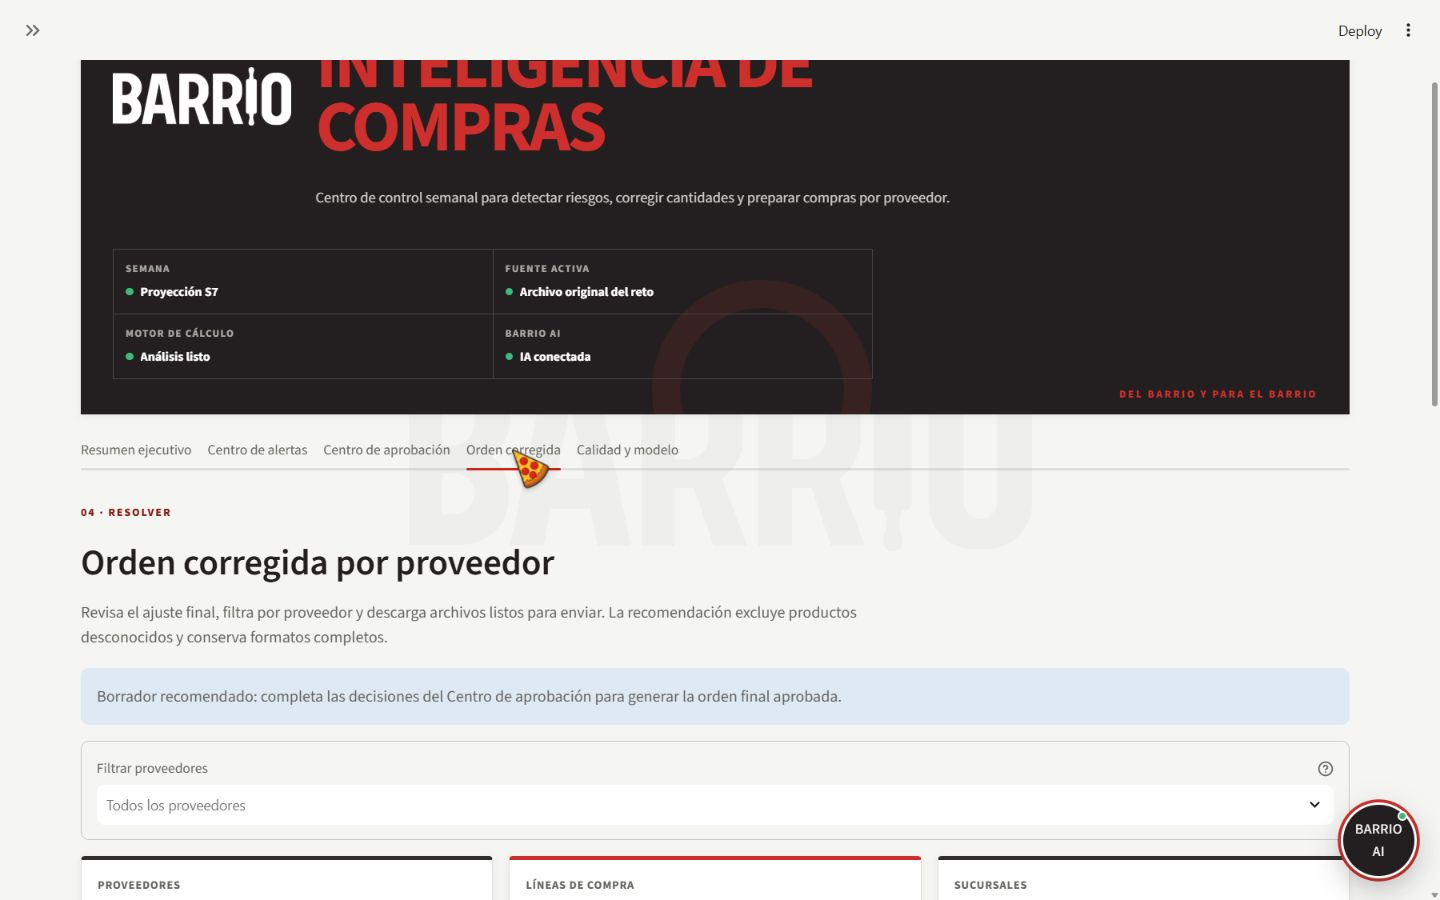
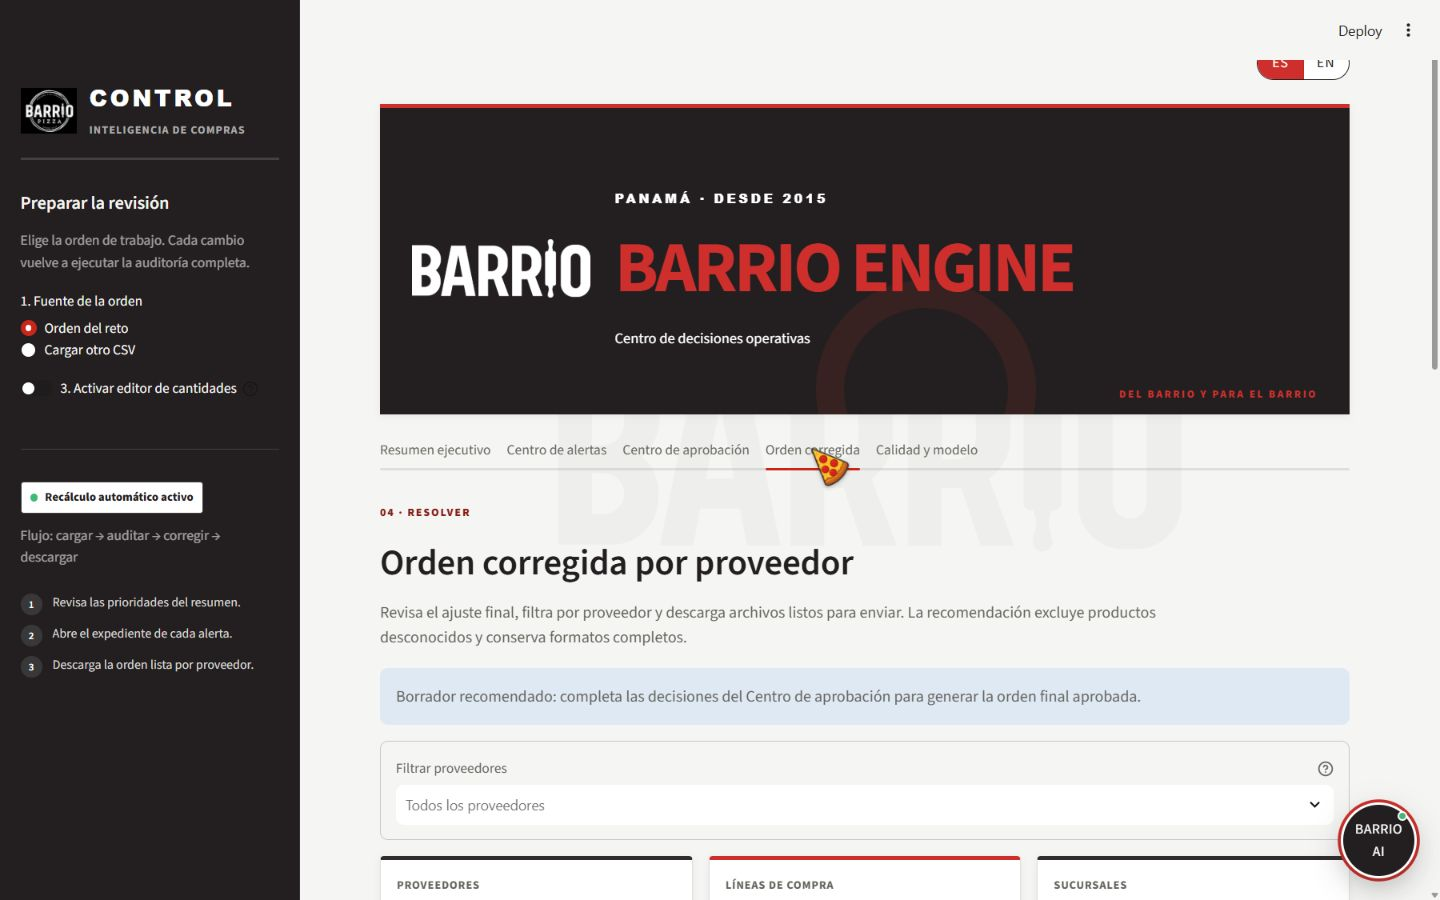
style: introduce Barrio Engine branding

diff --git a/assets/styles.css b/assets/styles.css
@@ -158,7 +158,7 @@ a {
 .bp-header h1 {
   max-width: 760px;
   margin: 0;
-  color: var(--bp-paper);
+  color: var(--bp-red);
   font-size: clamp(2.85rem, 5vw, 4.9rem);
   letter-spacing: -0.045em;
   line-height: 0.87;
@@ -166,7 +166,7 @@ a {
 }
 
 .bp-header h1 span {
-  color: var(--bp-red);
+  color: inherit;
 }
 
 .bp-header--en h1 {
@@ -177,7 +177,7 @@ a {
 .bp-header p {
   max-width: 760px;
   margin: 0.85rem 0 0;
-  color: #cfcfca;
+  color: #fff;
   font-size: 0.92rem;
   line-height: 1.45;
 }
@@ -619,7 +619,7 @@ section[data-testid="stSidebar"] [data-testid="stMarkdownContainer"] {
   width: 56px;
   height: 56px;
   object-fit: contain;
-  filter: invert(1) brightness(2.7) contrast(1.2);
+  filter: none;
 }
 
 .bp-side-brand strong {
@@ -755,9 +755,14 @@ div[data-testid="stVerticalBlockBorderWrapper"] {
 
 .stButton button[kind="primary"],
 .stDownloadButton button[kind="primary"] {
-  color: var(--bp-paper);
+  color: #fff !important;
   background: var(--bp-red);
   border-color: var(--bp-red);
+}
+
+.stButton button[kind="primary"] *,
+.stDownloadButton button[kind="primary"] * {
+  color: #fff !important;
 }
 
 button:focus-visible,

diff --git a/app.py b/app.py
@@ -137,7 +137,7 @@ FORMATO_INGLES = {
 
 
 st.set_page_config(
-    page_title="Barrio Pizza · Inteligencia de Compras",
+    page_title="Barrio Pizza · BARRIO ENGINE",
     page_icon="🍕",
     layout="wide",
     initial_sidebar_state="expanded",
@@ -422,8 +422,8 @@ def _encabezado_producto(
             <img class="bp-header-logo" src="{logo}" alt="Barrio Pizza">
             <div>
               <div class="bp-wordmark">{_texto('Panamá · Desde 2015', 'Panama · Since 2015')}</div>
-              <h1>{_texto('Inteligencia', 'Purchasing')} <span>{_texto('de compras', 'intelligence')}</span></h1>
-              <p>{_texto('Centro de control semanal para detectar riesgos, corregir cantidades y preparar compras por proveedor.', 'Weekly control center to detect risks, correct quantities and prepare supplier-ready orders.')}</p>
+              <h1>BARRIO <span>ENGINE</span></h1>
+              <p>{_texto('Centro de decisiones operativas', 'Operational decision center')}</p>
             </div>
           </div>
           <div class="bp-status-grid" aria-label="{_texto('Estado de la operación', 'Operation status')}">
@@ -807,7 +807,7 @@ except ErrorCargaDatos as error:
 
 
 with st.sidebar:
-    logo_sidebar = _imagen_data_uri(RAIZ / "assets" / "barrio-wordmark.png")
+    logo_sidebar = _imagen_data_uri(RAIZ / "assets" / "barrio-logo-sidebar.png")
     st.markdown(
         f"""
         <div class="bp-side-brand">

diff --git a/README.md b/README.md
@@ -1,11 +1,11 @@
-# BARRIO PIZZA — Inteligencia de Compras
+# BARRIO PIZZA — BARRIO ENGINE
 
 <p align="center">
   <img src="assets/logo de barrio para github.png" alt="Barrio Pizza" width="230">
 </p>
 
 <p align="center">
-  Centro de control semanal para detectar riesgos, corregir cantidades y preparar compras por proveedor.
+  Centro de decisiones operativas.
 </p>
 
 <p align="center">
